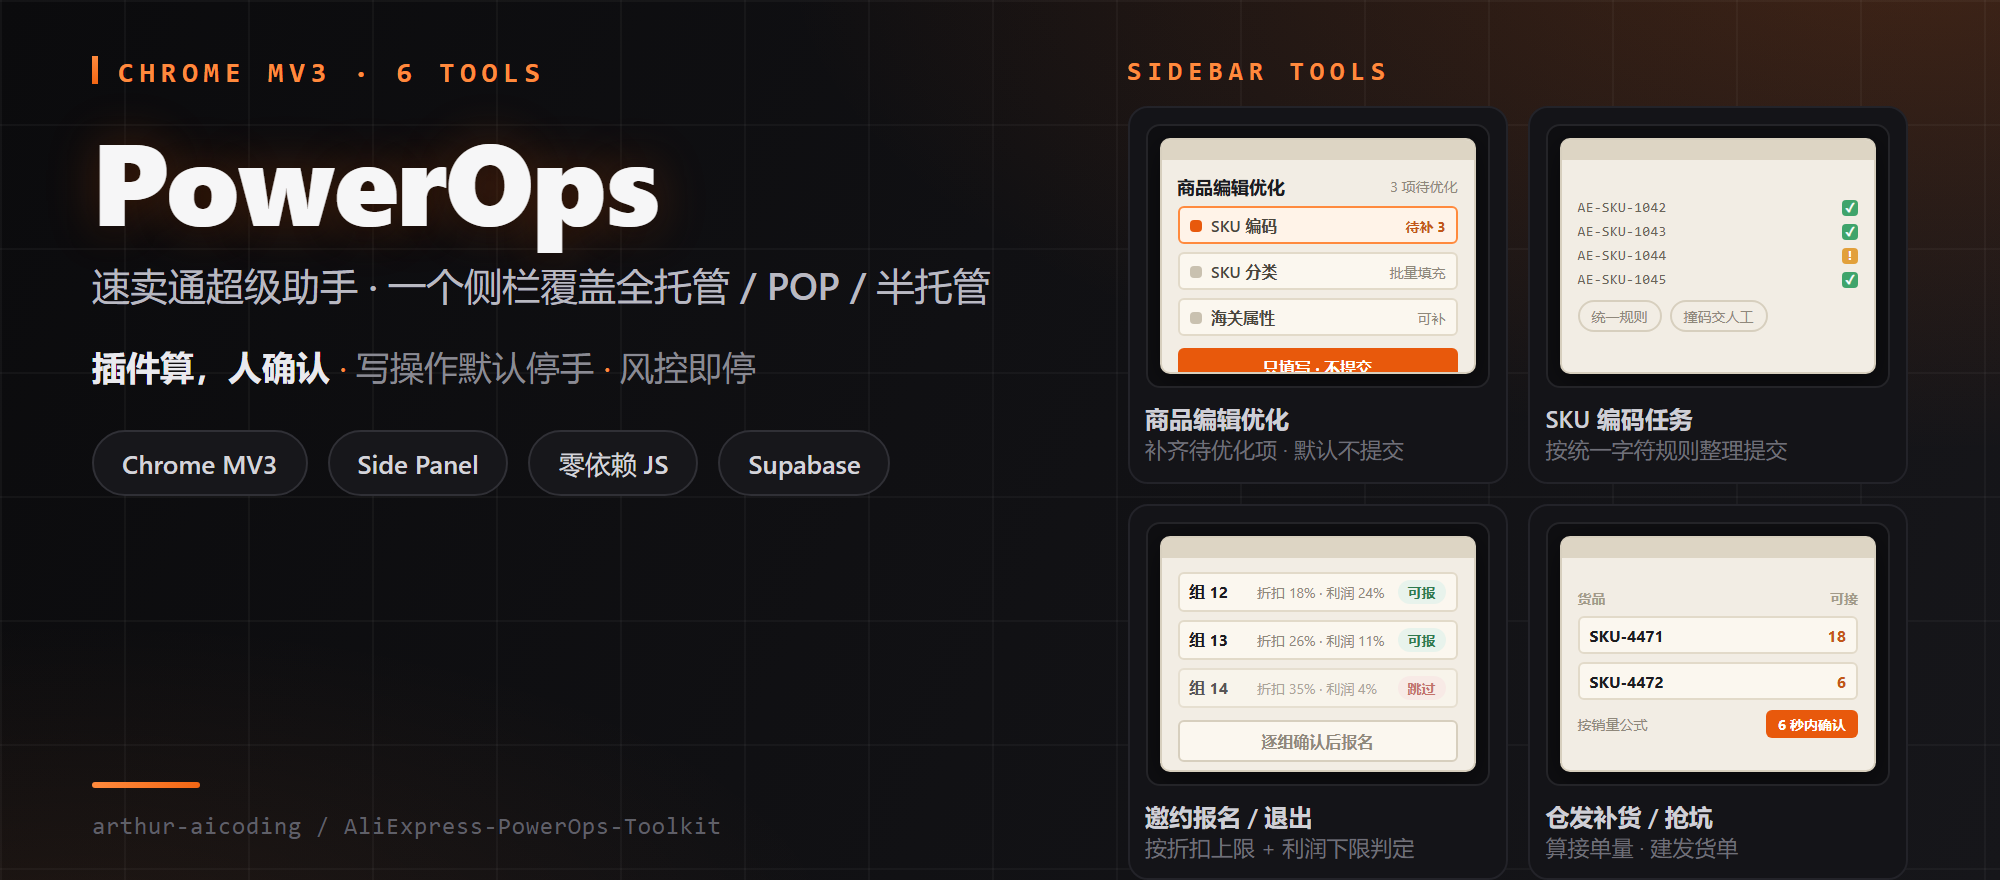
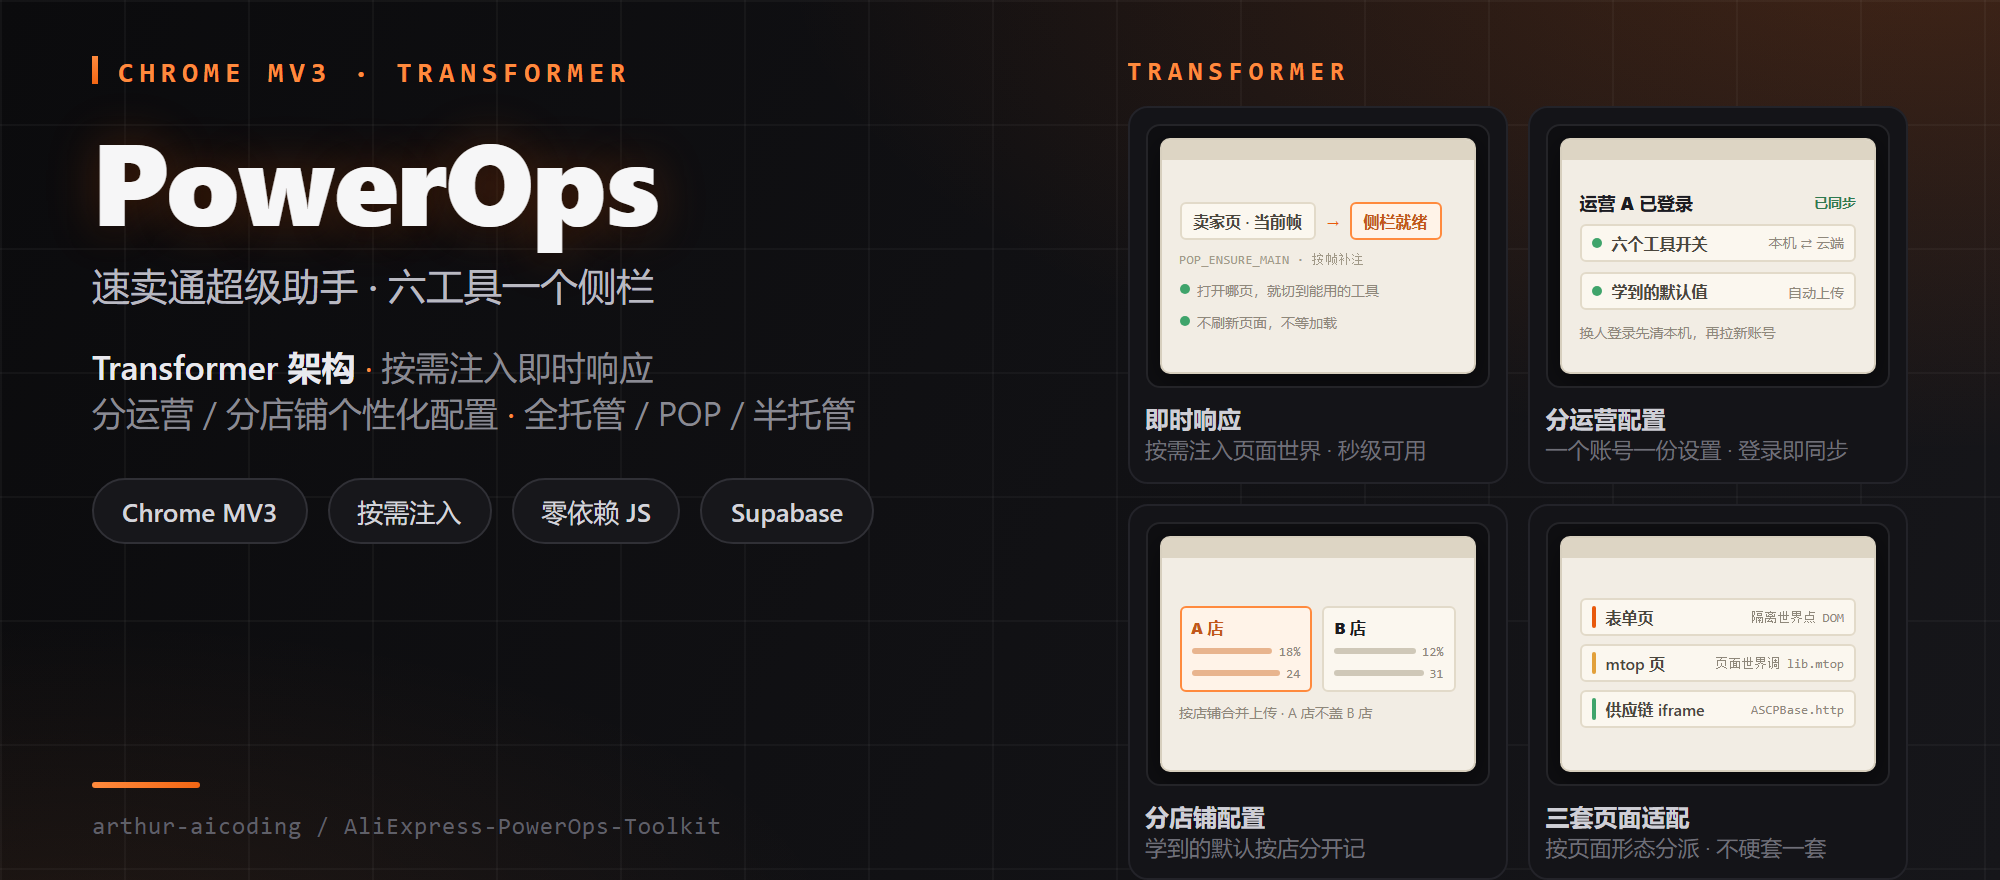
feat(profile): PowerOps 卡片补上 Transformer 架构主线（即时响应 / 分运营 / 分店铺 / 三套页面适配）

diff --git a/README.md b/README.md
@@ -21,11 +21,11 @@
 
 `Python 3.10+` · `Playwright / CDP` · `钉钉 Notable` · `紫鸟 / 稳卖`
 
-**PowerOps Toolkit** — 速卖通超级助手：商品编辑、SKU 编码、邀约报名退出、仓发补货、抢坑六个工具收进一个侧栏。插件算、人确认，写操作默认停手。
+**PowerOps Toolkit** — 速卖通超级助手：六个工具收进一个侧栏。Transformer 架构按需注入页面脚本、即时响应，配置按运营和店铺分开记，越用越顺手——插件算、人确认。
 
 [![PowerOps Toolkit](assets/banners/powerops.png)](https://github.com/arthur-aicoding/AliExpress-PowerOps-Toolkit)
 
-`Chrome MV3` · `Side Panel` · `零依赖 JS` · `Supabase`
+`Chrome MV3` · `Transformer 架构` · `按需注入` · `Supabase`
 
 **Product Data Matrix** — 全店商品的销量、利润率、评分，一张矩阵配齐。团队协作 + 钉钉登录 + 实时看板。
 
